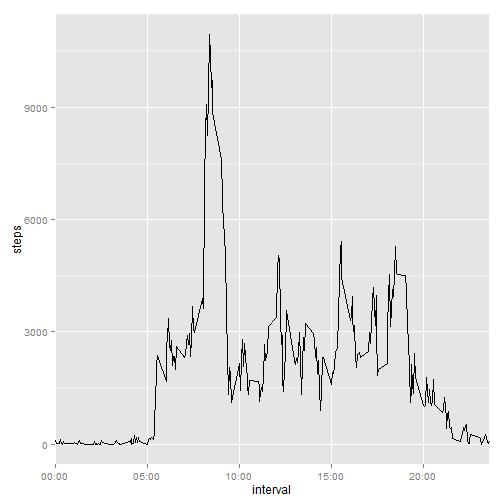
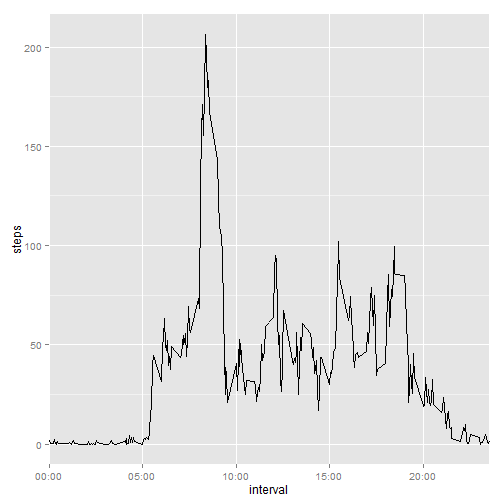
Fixing silly error (sum instead of mean to aggregate).

diff --git a/PA1_template.html b/PA1_template.html
@@ -230,7 +230,7 @@ activity$datetime &lt;- strptime(activity$date, format=&quot;%F&quot;) + activit
 library(ggplot2)
 histogram &lt;- ggplot(data=steps.per.day, aes(x=date, y=steps))
 histogram &lt;- histogram + geom_histogram(stat=&quot;identity&quot;)
-histogram &lt;- histogram + theme(text = element_text(size=10),axis.text.x = element_text(angle=90, vjust=1))
+histogram &lt;- histogram + theme(text = element_text(size=10),axis.text.x = element_text(angle=90))
 histogram
 </code></pre>
 
@@ -248,7 +248,7 @@ total.median.per.day &lt;- median(steps.per.day$steps)
 
 <p>Let&#39;s look now at the activity pattern during a day. In order to do this, we average steps across each of the intervals during a day.</p>
 
-<pre><code class="r">steps.per.time.of.day &lt;- aggregate(steps ~ interval, activity, sum, na.rm=TRUE)
+<pre><code class="r">steps.per.time.of.day &lt;- aggregate(steps ~ interval, activity, mean, na.rm=TRUE)
 max.steps &lt;- max(steps.per.time.of.day$steps)
 max.steps.interval &lt;- steps.per.time.of.day[steps.per.time.of.day$steps == max.steps,1]
 day.pattern &lt;- ggplot(data=steps.per.time.of.day, aes(x=interval, y=steps))
@@ -259,9 +259,9 @@ day.pattern &lt;- day.pattern + scale_x_discrete(breaks=day.breaks,labels=day.br
 day.pattern
 </code></pre>
 
[2 lines of base64/hex data omitted]
 
-<p>The maximum value of average steps across all days is 10927, which happens at 08:35.</p>
+<p>The maximum value of average steps across all days is 206.17, which happens at 08:35.</p>
 
 <h2>Imputing missing values</h2>
 
@@ -282,29 +282,37 @@ total.mean.per.day.filled.in &lt;- mean(steps.per.day.filled.in$steps)
 total.median.per.day.filled.in &lt;- median(steps.per.day.filled.in$steps)
 histogram2 &lt;- ggplot(data=steps.per.day.filled.in, aes(x=date, y=steps))
 histogram2 &lt;- histogram + geom_histogram(stat=&quot;identity&quot;)
-histogram2 &lt;- histogram + theme(text = element_text(size=10),axis.text.x = element_text(angle=90, vjust=1))
+histogram2 &lt;- histogram + theme(text = element_text(size=10),axis.text.x = element_text(angle=90))
 histogram2
 </code></pre>
 
[1 lines of base64/hex data omitted]
 
-<p>The result of the new calculation returns a value of 21133.63 mean steps taken per day, and 10890 as the value of the median per day. This is a significant difference from the values obtained without taking care of the missing values (49.06% difference for the mean).</p>
+<p>The result of the new calculation returns a value of 10766.19 mean steps taken per day, and 10765.59 as the value of the median per day. As expected, the mean is the same since new values have the same value as the mean. The median has changed and it is no longer an integer value, since the mean values that have been added were not rounded to integers. The difference doesn&#39;t seem noticeable if we look at the total number of steps either. After looking a bit more into the missing values, it seems that they all correspond to complete missing days (2012-10-01, 2012-10-08, 2012-11-01, 2012-11-04, 2012-11-09, 2012-11-10, 2012-11-14, 2012-11-30). It can be checked with the following code, which returns the number of non NA values for the dates with any NA value (should return 0):</p>
+
+<pre><code class="r">sum(!is.na(activity[activity$date %in% unique(activity[is.na(activity$steps),]$date),1]))
+</code></pre>
+
+<pre><code>## [1] 0
+</code></pre>
+
+<p>This explains why there is no impact in the mean values.</p>
 
 <h2>Are there differences in activity patterns between weekdays and weekends?</h2>
 
 <p>Let&#39;s compare the daily pattern of weekdays with that of the weekend.</p>
 
-<pre><code class="r">activity.filled.in$isWeekend &lt;- as.POSIXlt(activity.filled.in$datetime)$wday %in% c(0,6)
-act.final &lt;- aggregate(steps ~ interval + isWeekend, data=activity.filled.in, FUN=mean)
+<pre><code class="r">activity$isWeekend &lt;- as.POSIXlt(activity$datetime)$wday %in% c(0,6)
+act.final &lt;- aggregate(steps ~ interval + isWeekend, data=activity, FUN=mean)
 day.pattern2 &lt;- ggplot(data=act.final, aes(x=interval, y=steps, color=isWeekend))
 day.pattern2 &lt;- day.pattern2 + geom_line()
 day.pattern2 &lt;- day.pattern2 + scale_x_discrete(breaks=day.breaks,labels=day.breaks.time)
 day.pattern2
 </code></pre>
 
[2 lines of base64/hex data omitted]
 
-<p>Apparently, there is less activity during the weekends. Specially the peaks int the early morning and late afternoon seem missing during the weekends. That could indicate that the mean of transportation to the weekdays activity is walking.</p>
+<p>There are clear differences in the patterns, as it would have been expected. There is a higher activity earlier in the morning during the weekdays and a overall higher activity later in the day during weekends, which seems reasonable.</p>
 
 </body>
 

diff --git a/PA1_template.md b/PA1_template.md
@@ -42,7 +42,7 @@ steps.per.day <- aggregate(steps ~ date, activity, sum, na.rm=TRUE)
 library(ggplot2)
 histogram <- ggplot(data=steps.per.day, aes(x=date, y=steps))
 histogram <- histogram + geom_histogram(stat="identity")
-histogram <- histogram + theme(text = element_text(size=10),axis.text.x = element_text(angle=90, vjust=1))
+histogram <- histogram + theme(text = element_text(size=10),axis.text.x = element_text(angle=90))
 histogram
 ```
 
@@ -64,7 +64,7 @@ Let's look now at the activity pattern during a day. In order to do this, we ave
 
 
 ```r
-steps.per.time.of.day <- aggregate(steps ~ interval, activity, sum, na.rm=TRUE)
+steps.per.time.of.day <- aggregate(steps ~ interval, activity, mean, na.rm=TRUE)
 max.steps <- max(steps.per.time.of.day$steps)
 max.steps.interval <- steps.per.time.of.day[steps.per.time.of.day$steps == max.steps,1]
 day.pattern <- ggplot(data=steps.per.time.of.day, aes(x=interval, y=steps))
@@ -77,7 +77,7 @@ day.pattern
 
 ![plot of chunk daily.pattern](figure/daily.pattern-1.png) 
 
-The maximum value of average steps across all days is 10927, which happens at 08:35.
+The maximum value of average steps across all days is 206.17, which happens at 08:35.
 
 ## Imputing missing values
 
@@ -102,13 +102,24 @@ total.mean.per.day.filled.in <- mean(steps.per.day.filled.in$steps)
 total.median.per.day.filled.in <- median(steps.per.day.filled.in$steps)
 histogram2 <- ggplot(data=steps.per.day.filled.in, aes(x=date, y=steps))
 histogram2 <- histogram + geom_histogram(stat="identity")
-histogram2 <- histogram + theme(text = element_text(size=10),axis.text.x = element_text(angle=90, vjust=1))
+histogram2 <- histogram + theme(text = element_text(size=10),axis.text.x = element_text(angle=90))
 histogram2
 ```
 
 ![plot of chunk steps.per.day.filled.in](figure/steps.per.day.filled.in-1.png) 
 
-The result of the new calculation returns a value of 21133.63 mean steps taken per day, and 10890 as the value of the median per day. This is a significant difference from the values obtained without taking care of the missing values (49.06% difference for the mean).
+The result of the new calculation returns a value of 10766.19 mean steps taken per day, and 10765.59 as the value of the median per day. As expected, the mean is the same since new values have the same value as the mean. The median has changed and it is no longer an integer value, since the mean values that have been added were not rounded to integers. The difference doesn't seem noticeable if we look at the total number of steps either. After looking a bit more into the missing values, it seems that they all correspond to complete missing days (2012-10-01, 2012-10-08, 2012-11-01, 2012-11-04, 2012-11-09, 2012-11-10, 2012-11-14, 2012-11-30). It can be checked with the following code, which returns the number of non NA values for the dates with any NA value (should return 0):
+
+
+```r
+sum(!is.na(activity[activity$date %in% unique(activity[is.na(activity$steps),]$date),1]))
+```
+
+```
+## [1] 0
+```
+
+This explains why there is no impact in the mean values.
 
 ## Are there differences in activity patterns between weekdays and weekends?
 
@@ -116,8 +127,8 @@ Let's compare the daily pattern of weekdays with that of the weekend.
 
 
 ```r
-activity.filled.in$isWeekend <- as.POSIXlt(activity.filled.in$datetime)$wday %in% c(0,6)
-act.final <- aggregate(steps ~ interval + isWeekend, data=activity.filled.in, FUN=mean)
+activity$isWeekend <- as.POSIXlt(activity$datetime)$wday %in% c(0,6)
+act.final <- aggregate(steps ~ interval + isWeekend, data=activity, FUN=mean)
 day.pattern2 <- ggplot(data=act.final, aes(x=interval, y=steps, color=isWeekend))
 day.pattern2 <- day.pattern2 + geom_line()
 day.pattern2 <- day.pattern2 + scale_x_discrete(breaks=day.breaks,labels=day.breaks.time)
@@ -126,4 +137,4 @@ day.pattern2
 
 ![plot of chunk steps.per.weekday.weekend](figure/steps.per.weekday.weekend-1.png) 
 
-Apparently, there is less activity during the weekends. Specially the peaks int the early morning and late afternoon seem missing during the weekends. That could indicate that the mean of transportation to the weekdays activity is walking.
+There are clear differences in the patterns, as it would have been expected. There is a higher activity earlier in the morning during the weekdays and a overall higher activity later in the day during weekends, which seems reasonable.
